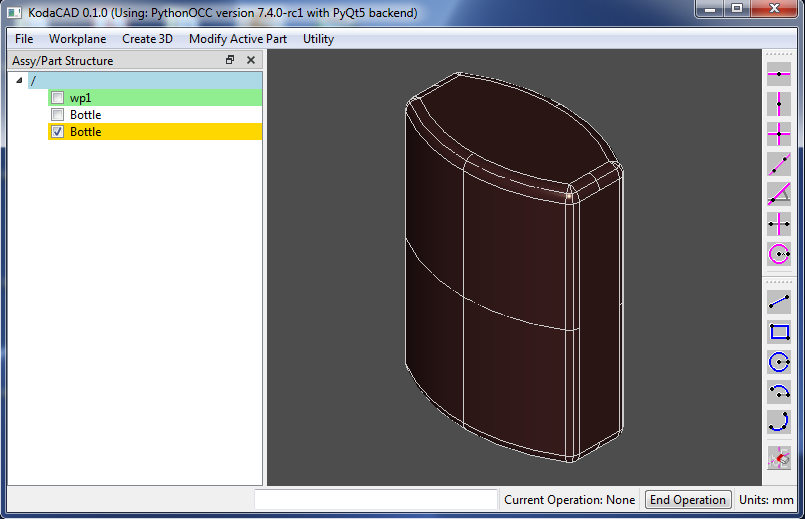
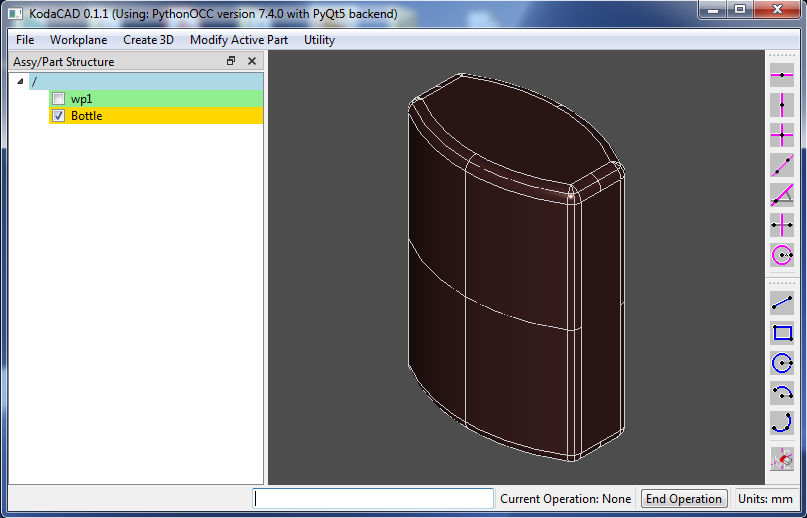
Revised Bottle Tutorial to use pull for the neck. Change to version '0.1.2'

diff --git a/docs/bottle_tutorial/index.html b/docs/bottle_tutorial/index.html
@@ -63,11 +63,11 @@
   <h3>Draw construction circles</h3>
 
   <p>Click on "construction circe" toolbar button, then click on the point at 0, 30
-  (center of circle), then point at 0, -15.</p><img src="images/wp6.png" width="805"
+  (center of circle), then the point at 0, -15.</p><img src="images/wp6.png" width="805"
   height="521" border="0" alt="" />
 
   <p>Draw a second construction circle by first entering the coordinates of its center
-  (0,-30) but without the parentheses, then enter the value 45 for the radius.</p>
+  <b>0,-30</b> then enter the value <b>45</b> for the radius.</p>
 
   <p>In general, when a 2d point is needed, you have the option of either clicking on a
   point or entering the point coordinates in the <b>User Input</b> widget. When in doubt,
@@ -104,12 +104,12 @@
   select would be really handy, but it's not implemented yet.) Enter the fillet radius
   value of <b>3</b>.</p>
 
-  <p>A new <b>Bottle</b> part (with the same name) has been created and made active. The
-  old part is still there but blanked from view (and no longer active). The old part is
-  an <b>Ancestor</b> of the new part.</p><img src="images/bot2.png" width="805" height=
-  "521" border="0" alt="" />
+  <p>The <b>Bottle</b> part is now represented by a newly created shape which has taken
+  the place of the previous shape (prior to blending). The previous shape is still
+  accesible (if needed). It has been appended to a list of <b>ancestor</b> shapes.
+  </p><img src="images/bot2.png" width="805" height="521" border="0" alt="" />
 
-  <h3>Create the neck</h3>
+  <h3>Create the neck profile</h3>
 
   <p>In the menubar, click on <b>Workpane</b> then <b>On face</b>. Select the top face of
   the bottle. (The face normal will be the <b>w direction</b> of the new workplane.) Now
@@ -117,27 +117,18 @@
   the new workplane.) A new workplane <b>w2</b> is now be created (and is active). Its
   0,0 coordinates are located at the center of the bottle's top face.</p>
 
-  <p>Next, make a Profile circle on <b>w2</b> with center at 0,0 and radius = 7.5.</p>
+  <p>Next, make a Profile circle on <b>w2</b> with center at <b>0,0</b> and radius =
+  <b>7.5</b></p>
+  </p><img src="images/bot3.png" width="805" height="521" border="0" alt="" />
 
-  <p>Now click on <b>Create 3D</b> then <b>Extrude</b>. Enter <b>7</b> for the extrusion
-  distance and enter <b>Neck</b> for the name.</p>
+  <h3>Create the Neck of the Bottle</h3>
 
-  <p>The Neck is created and is now the <b>active part</b>.</p><img src="images/bot3.png"
-  width="805" height="521" border="0" alt="" />
+  <p>Now click on <b>Modify Active Part</b> then <b>Pull</b>. Enter the value <b>7</b>
+  (the height of the Neck). This will pull a circular boss 7mm tall on the top face of
+  the bottle.</p>
 
-  <h3>Fuse the Neck to the Bottle</h3>
-
-  <p>In the Tree View, hide wp2 by unchecking its box. We no longer need to see that. Now
-  left click on the most recently created <b>Bottle</b> (still with a check mark), then
-  right click and select <b>Set Active</b>. By setting the Bottle active, we can fuse the
-  Neck to the Bottle rather than the other way around.</p>
-
-  <p>Now click on <b>Modify Active Part</b> then <b>Fuse</b>. Click on the Neck in the
-  <b>3D Display</b> window. (Clicking the Neck in the Tree View window won't work
-  (yet).)</p>
-
-  <p>A new <b>Bottle</b> is now created and is set active. Uncheck the check box of the
-  Neck. We don't need to see that any longer.</p><img src="images/bot4.png" width="805"
+  <p>The <b>Bottle</b> now has a neck. Uncheck the check box of <b>w2</b>.
+  We don't need to see that any longer.</p><img src="images/bot4.png" width="805"
   height="521" border="0" alt="" />
 
   <h3>Shell the Bottle</h3>
@@ -149,7 +140,7 @@
   first on the top circular face of the bottle, then enter a shell thickness of
   <b>1</b>.</p>
 
-  <p>The final <b>Bottle</b> is comlete.</p><img src="images/bot5.png" width="805"
-  height="521" border="0" alt="" />
+  <p>The <b>Bottle</b> is comlete. If desired, it can be saved in STEP format.
+  </p><img src="images/bot5.png" width="805" height="521" border="0" alt="" />
 </body>
 </html>

diff --git a/version.py b/version.py
@@ -1,2 +1,3 @@
-APP_VERSION = "0.1.1"  # 2/24/2020 'Round trip' Load/Save STEP works crudely (save all parts in _partDict)
+APP_VERSION = "0.1.2"  # 3/19/2020 OCAF document format adopted for CAD data model
+# APP_VERSION = "0.1.1"  # 2/24/2020 'Round trip' Load/Save STEP works crudely (save all parts in _partDict)
 # APP_VERSION = "0.1.0"  # 2/17/2020 Initial release
